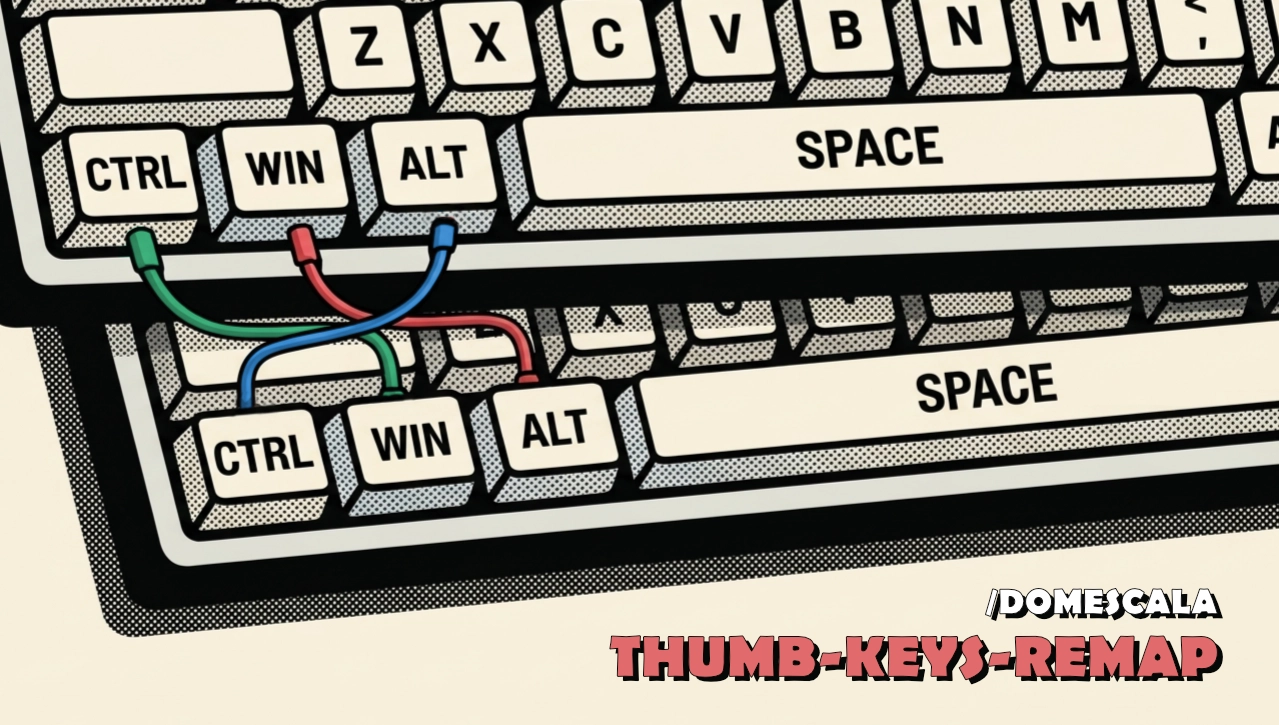
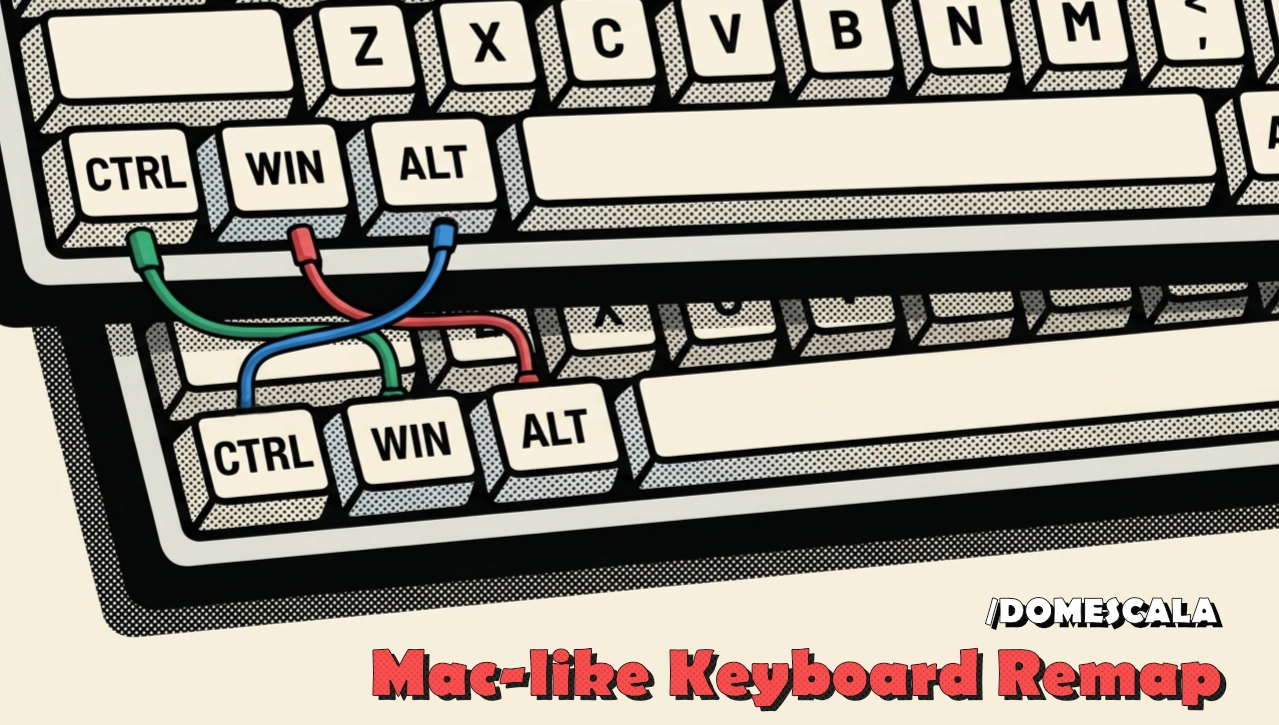
rename repo - v1.0.1

Changed region(s): [[0.2744, 0.789, 0.9758, 1.0], [0.7013, 0.4855, 0.8233, 0.5766], [0.6099, 0.1517, 0.7318, 0.2428]]

diff --git a/README.it.md b/README.it.md
@@ -1,11 +1,11 @@
 [![badge](https://shieldcn.dev/badge/README%20IN%20ENGLISH-f6bf3b.svg?logo=lu%3ALanguages)](./README.md)
 
 <div align="center">
-<img src="cover.webp" alt="Thumb keys remap cover" width="100%" />
+<img src="cover.webp" alt="Mac-like Keyboard Remap for Windows cover" width="100%" />
 <br/>
 <br/>
 
-# Thumb keys remap
+# Mac-like Keyboard Remap for Windows
 
 **Rimappa i tasti <kbd>WIN</kbd> <kbd>ALT</kbd> <kbd>CTRL</kbd> di Windows per adattarli al layout del Mac.**
 La mappatura si applica tramite PowerToys Keyboard Manager di Windows, si può attivare o disattivare in qualsiasi momento senza dover riavviare.
@@ -21,8 +21,8 @@ La mappatura si applica tramite PowerToys Keyboard Manager di Windows, si può a
 ## Screenshots
 
 <table><tr>
-    <td><img src="docs/screenshot-1.png" alt="Thumb keys remap cover" width="100%" /></td>
-     <td><img src="docs/screenshot-2.png" alt="Thumb keys remap cover" width="100%" /></td>
+    <td><img src="docs/screenshot-1.png" alt="Screenshot 1" width="100%" /></td>
+     <td><img src="docs/screenshot-2.png" alt="Screenshot 2" width="100%" /></td>
   </tr>
 </table>
 
@@ -69,11 +69,11 @@ Serve **Windows 11**.
 winget install --id Microsoft.PowerToys
 ```
 
-### 2⃣ Scarica e avvia Thumb keys remap
+### 2⃣ Scarica e avvia il programma
 
 #### Via eseguibile
 
-Scarica **`ThumbKeysRemap.exe`** dall'[ultima release](https://github.com/domescala/thumb-keys-remap/releases/latest) e aprilo. Non c'è niente da installare: Python non serve.
+Scarica **`MacLikeKeyboard.exe`** dall'[ultima release](https://github.com/domescala/windows-mac-like-keyboard-remap/releases/latest) e aprilo. Non c'è niente da installare: Python non serve.
 
 - Mettilo in una cartella in cui puoi scrivere (non in `Programmi`): le configurazioni vengono salvate accanto, in `configurations.json`.
 - Per aggiornarlo sostituisci l'exe e conserva `configurations.json`.
@@ -93,21 +93,21 @@ Scarica **`ThumbKeysRemap.exe`** dall'[ultima release](https://github.com/domesc
 Con git:
 
 ```powershell
-git clone https://github.com/domescala/thumb-keys-remap.git
+git clone https://github.com/domescala/windows-mac-like-keyboard-remap.git
 ```
 
-Oppure scarica lo [ZIP](https://github.com/domescala/thumb-keys-remap/archive/refs/heads/main.zip) ed estrailo.
+Oppure scarica lo [ZIP](https://github.com/domescala/windows-mac-like-keyboard-remap/archive/refs/heads/main.zip) ed estrailo.
 
 ##### Installa Pillow
 
 Dal terminale spostati nella cartella e installa Pillow:
 
 ```powershell
-cd thumb-keys-remap
+cd windows-mac-like-keyboard-remap
 python -m pip install pillow
 ```
 
-Se hai scaricato lo ZIP, la cartella si chiama `thumb-keys-remap-main`.
+Se hai scaricato lo ZIP, la cartella si chiama `windows-mac-like-keyboard-remap-main`.
 
 ##### Avvia
 
@@ -242,7 +242,7 @@ Serve **Python 3**. Dalla cartella del progetto:
 powershell -ExecutionPolicy Bypass -File build.ps1
 ```
 
-Il risultato è `dist\ThumbKeysRemap.exe`. Lo script scarica Pillow e PyInstaller in un ambiente separato dentro `build/`, quindi la prima volta serve la connessione a Internet.
+Il risultato è `dist\MacLikeKeyboard.exe`. Lo script scarica Pillow e PyInstaller in un ambiente separato dentro `build/`, quindi la prima volta serve la connessione a Internet.
 
 <br/>
 
@@ -267,6 +267,11 @@ Il risultato è `dist\ThumbKeysRemap.exe`. Lo script scarica Pillow e PyInstalle
 - Il tasto <kbd>Fn</kbd> non si può rimappare.
 - Nelle finestre aperte come amministratore la mappatura vale solo se anche PowerToys è eseguito come amministratore.
 - Nella schermata di accesso di Windows i tasti restano quelli originali.
+
+<br/>
+
+> [!NOTE]
+> Se vuoi solo rimappare i tasti CTRL e ALT come su un Mac, questa è una valida alternativa agli script AutoHotkey (AHK) e a SharpKeys: non serve scrivere script né modificare il registro. La mappatura è gestita da PowerToys Keyboard Manager di Microsoft. Rispetto a SharpKeys, non occorre riavviare a ogni modifica.
 
 <br/>
 

diff --git a/README.md b/README.md
@@ -1,11 +1,11 @@
 [![badge](https://shieldcn.dev/badge/LEGGI%20IN%20ITALIANO-f6bf3b.svg?logo=lu%3ALanguages)](./README.it.md)
 
 <div align="center">
-<img src="cover.webp" alt="Thumb keys remap cover" width="100%" />
+<img src="cover.webp" alt="Mac-like Keyboard Remap for Windows cover" width="100%" />
 <br/>
 <br/>
 
-# Thumb keys remap
+# Mac-like Keyboard Remap for Windows
 
 **Remap the <kbd>WIN</kbd> <kbd>ALT</kbd> <kbd>CTRL</kbd> keys on Windows to match the Mac layout.**
 The mapping is applied through the Windows PowerToys Keyboard Manager and can be turned on or off at any time, without restarting.
@@ -22,8 +22,8 @@ The mapping is applied through the Windows PowerToys Keyboard Manager and can be
 ## Screenshots
 
 <table><tr>
-    <td><img src="docs/screenshot-1.png" alt="Thumb keys remap cover" width="100%" /></td>
-     <td><img src="docs/screenshot-2.png" alt="Thumb keys remap cover" width="100%" /></td>
+    <td><img src="docs/screenshot-1.png" alt="Screenshot 1" width="100%" /></td>
+     <td><img src="docs/screenshot-2.png" alt="Screenshot 2" width="100%" /></td>
   </tr>
 </table>
 
@@ -70,11 +70,11 @@ You need **Windows 11**.
 winget install --id Microsoft.PowerToys
 ```
 
-### 2⃣ Download and run Thumb keys remap
+### 2⃣ Download and run the app
 
 #### Using the executable
 
-Download **`ThumbKeysRemap.exe`** from the [latest release](https://github.com/domescala/thumb-keys-remap/releases/latest) and open it. There is nothing to install: Python is not needed.
+Download **`MacLikeKeyboard.exe`** from the [latest release](https://github.com/domescala/windows-mac-like-keyboard-remap/releases/latest) and open it. There is nothing to install: Python is not needed.
 
 - Put it in a folder you can write to (not `Program Files`): your profiles are saved next to it, in `configurations.json`.
 - To update, replace the exe and keep `configurations.json`.
@@ -94,21 +94,21 @@ Download **`ThumbKeysRemap.exe`** from the [latest release](https://github.com/d
 With git:
 
 ```powershell
-git clone https://github.com/domescala/thumb-keys-remap.git
+git clone https://github.com/domescala/windows-mac-like-keyboard-remap.git
 ```
 
-Or download the [ZIP](https://github.com/domescala/thumb-keys-remap/archive/refs/heads/main.zip) and extract it.
+Or download the [ZIP](https://github.com/domescala/windows-mac-like-keyboard-remap/archive/refs/heads/main.zip) and extract it.
 
 ##### Install Pillow
 
 In the terminal, move into the folder and install Pillow:
 
 ```powershell
-cd thumb-keys-remap
+cd windows-mac-like-keyboard-remap
 python -m pip install pillow
 ```
 
-If you downloaded the ZIP, the folder is named `thumb-keys-remap-main`.
+If you downloaded the ZIP, the folder is named `windows-mac-like-keyboard-remap-main`.
 
 ##### Run
 
@@ -243,7 +243,7 @@ You need **Python 3**. From the project folder:
 powershell -ExecutionPolicy Bypass -File build.ps1
 ```
 
-The result is `dist\ThumbKeysRemap.exe`. The script downloads Pillow and PyInstaller into a separate environment inside `build/`, so the first run needs an Internet connection.
+The result is `dist\MacLikeKeyboard.exe`. The script downloads Pillow and PyInstaller into a separate environment inside `build/`, so the first run needs an Internet connection.
 
 <br/>
 
@@ -268,6 +268,11 @@ The result is `dist\ThumbKeysRemap.exe`. The script downloads Pillow and PyInsta
 - The <kbd>Fn</kbd> key cannot be remapped.
 - In windows running as administrator, the mapping works only if PowerToys is also run as administrator.
 - On the Windows sign-in screen the keys keep their original functions.
+
+<br/>
+
+> [!NOTE]
+> If you only want to remap the CTRL-ALT keys as on a Mac, this is a good alternative to AutoHotkey (AHK) scripts and SharpKeys: no scripting or registry editing needed. The mapping is handled by Microsoft's PowerToys Keyboard Manager. Unlike SharpKeys, you don't need to restart after each change.
 
 <br/>
 
